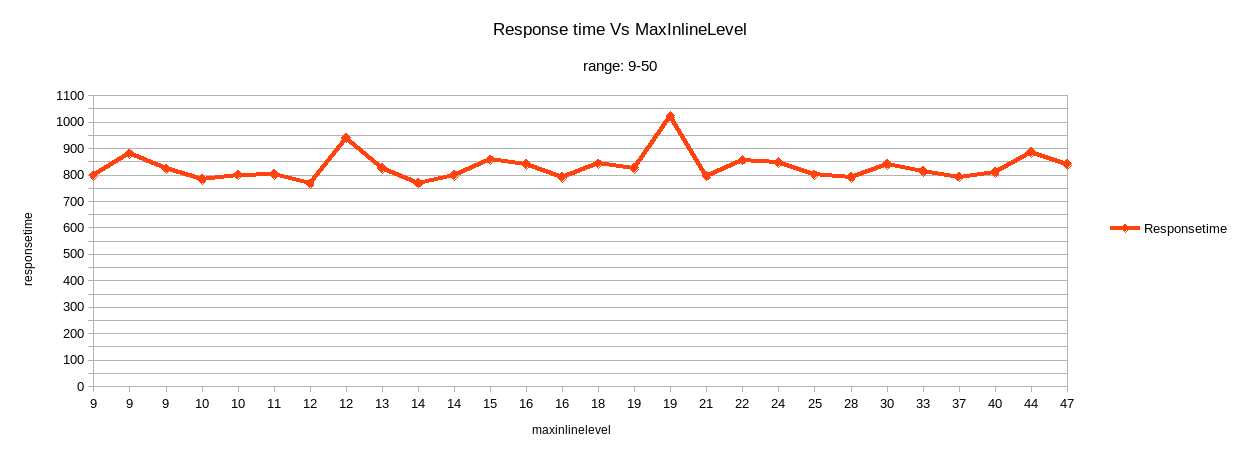
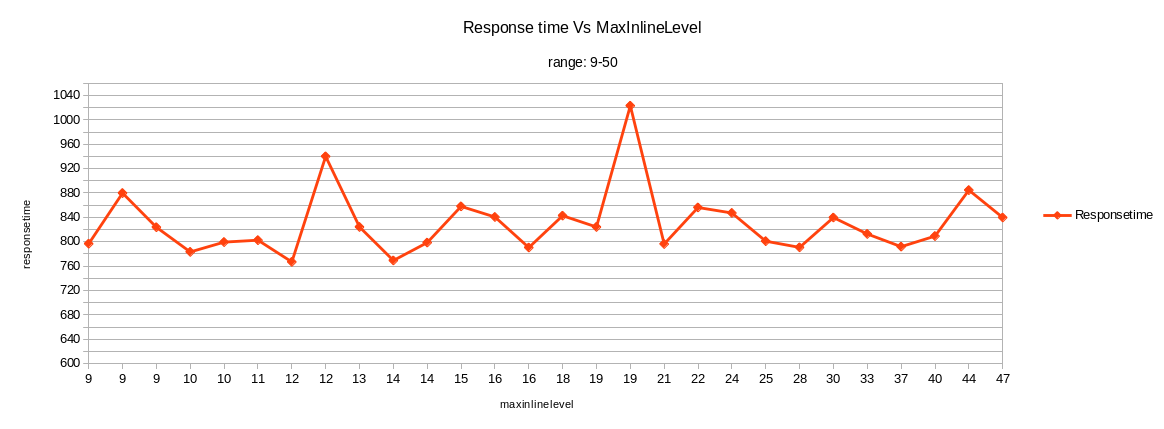
petclinic benchmark results data

diff --git a/spring-petclinic/tunables-maxinlinelevel/README.md b/spring-petclinic/tunables-maxinlinelevel/README.md
@@ -1,0 +1,14 @@
+# Summary of all experiments
+- Min response time is observed with MaxInlineLevel=13
+- 3.6% reduced response time is observed.
+
+## Tunables:
+MaxInlineLevel range used is 9-50
+
+## Configuration Used:
+CPU_REQUEST=2.87
+MEM_REQUEST=669M
+CPU_LIMIT=3.5
+MEM_LIMIT=1024M
+
+![Responsetime](responsetime.png)
